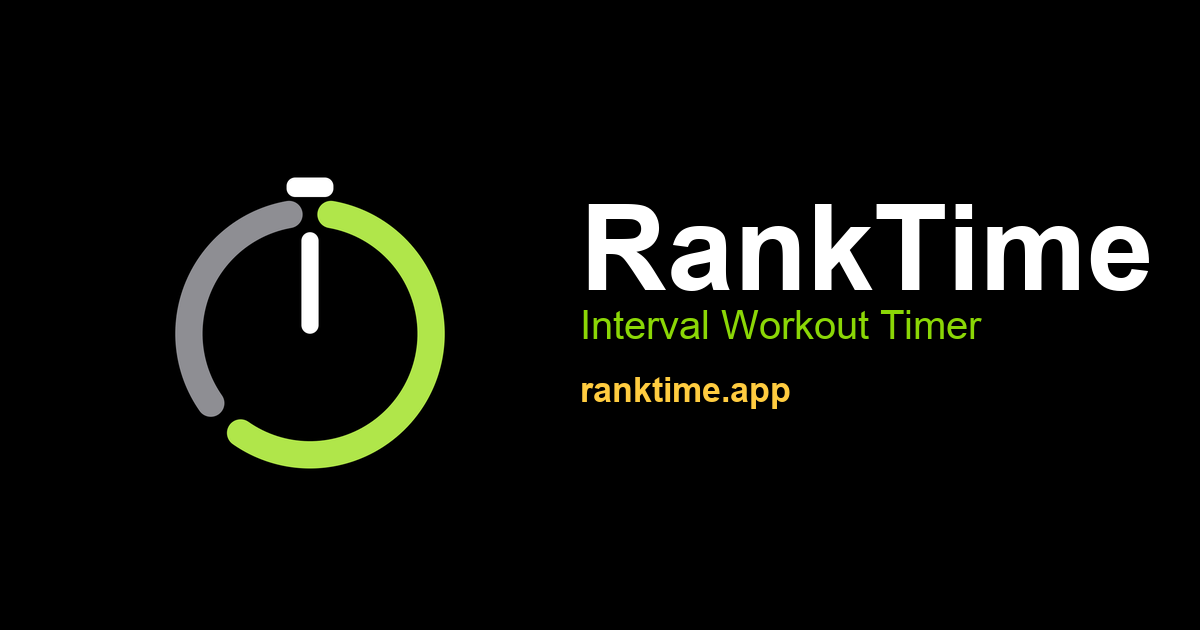
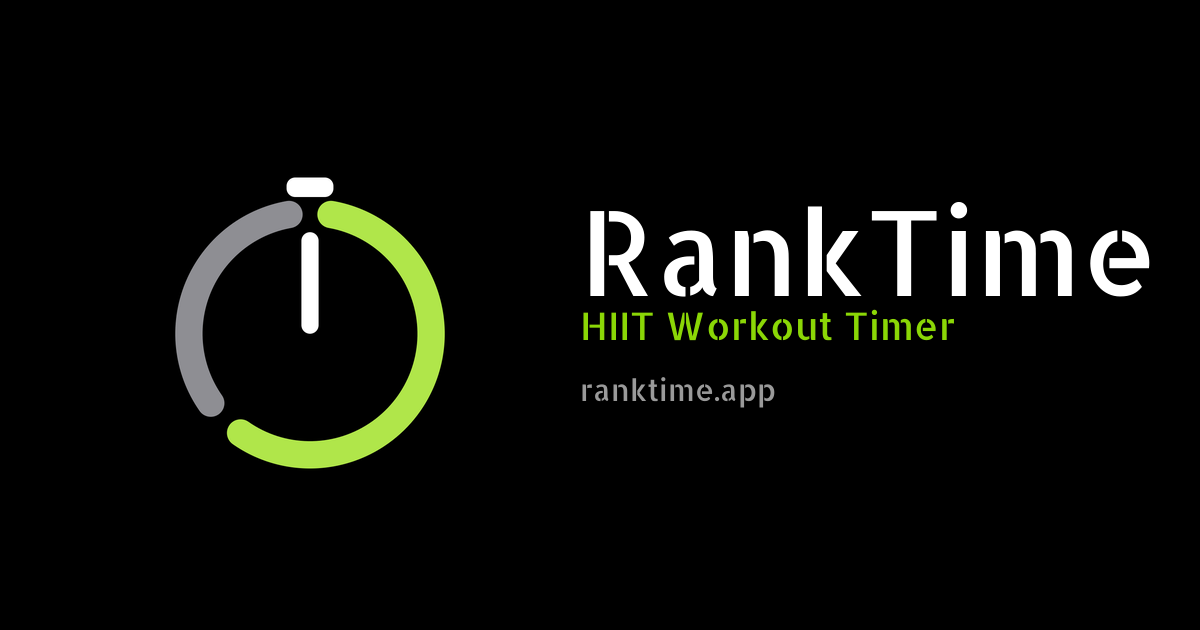
OG share card: Allerta Stencil wordmark, lime tagline, no gold; bump og:image URL for scraper cache

Changed region(s): [[0.4933, 0.3016, 0.9558, 0.5429], [0.4625, 0.6032, 0.6783, 0.6635]]

diff --git a/index.html b/index.html
@@ -9,13 +9,13 @@
   <meta property="og:url" content="https://ranktime.app/">
   <meta property="og:title" content="RankTime: HIIT Workout Timer for iPhone. Tabata, EMOM, Intervals">
   <meta property="og:description" content="RankTime is an iPhone HIIT timer for high intensity interval training: Tabata, EMOM, and custom intervals, with camera rep detection, heart rate monitoring, military rank progression, and Apple Health sync.">
-  <meta property="og:image" content="https://ranktime.app/og.png">
+  <meta property="og:image" content="https://ranktime.app/og.png?v=2">
   <meta property="og:image:width" content="1200">
   <meta property="og:image:height" content="630">
   <meta name="twitter:card" content="summary_large_image">
   <meta name="twitter:title" content="RankTime: HIIT Workout Timer for iPhone. Tabata, EMOM, Intervals">
   <meta name="twitter:description" content="RankTime is an iPhone HIIT timer for high intensity interval training: Tabata, EMOM, and custom intervals, with camera rep detection, heart rate monitoring, military rank progression, and Apple Health sync.">
-  <meta name="twitter:image" content="https://ranktime.app/og.png">
+  <meta name="twitter:image" content="https://ranktime.app/og.png?v=2">
   <link rel="canonical" href="https://ranktime.app/">
   <link rel="icon" type="image/png" href="/logo.png">
   <link rel="preload" href="/assets/AllertaStencil.ttf" as="font" type="font/ttf" crossorigin>
@@ -29,7 +29,7 @@
     "applicationCategory": "HealthApplication",
     "description": "HIIT workout timer for iPhone: Tabata, EMOM, and custom intervals with camera rep detection, heart rate monitoring, military rank progression, and Apple Health sync.",
     "url": "https://ranktime.app/",
-    "image": "https://ranktime.app/og.png",
+    "image": "https://ranktime.app/og.png?v=2",
     "author": { "@type": "Organization", "name": "RankTime", "url": "https://ranktime.app/" }
   }
   </script>

diff --git a/privacy/index.html b/privacy/index.html
@@ -9,11 +9,11 @@
   <meta property="og:url" content="https://ranktime.app/privacy/">
   <meta property="og:title" content="Privacy Policy - RankTime">
   <meta property="og:description" content="How RankTime handles your health, camera, Bluetooth, and diagnostics data.">
-  <meta property="og:image" content="https://ranktime.app/og.png">
+  <meta property="og:image" content="https://ranktime.app/og.png?v=2">
   <meta property="og:image:width" content="1200">
   <meta property="og:image:height" content="630">
   <meta name="twitter:card" content="summary_large_image">
-  <meta name="twitter:image" content="https://ranktime.app/og.png">
+  <meta name="twitter:image" content="https://ranktime.app/og.png?v=2">
   <link rel="canonical" href="https://ranktime.app/privacy/">
   <link rel="icon" type="image/png" href="/logo.png">
   <link rel="stylesheet" href="/styles.css?v=8">

diff --git a/support/index.html b/support/index.html
@@ -9,11 +9,11 @@
   <meta property="og:url" content="https://ranktime.app/support/">
   <meta property="og:title" content="Support - RankTime">
   <meta property="og:description" content="Get help with RankTime, the iPhone interval workout timer.">
-  <meta property="og:image" content="https://ranktime.app/og.png">
+  <meta property="og:image" content="https://ranktime.app/og.png?v=2">
   <meta property="og:image:width" content="1200">
   <meta property="og:image:height" content="630">
   <meta name="twitter:card" content="summary_large_image">
-  <meta name="twitter:image" content="https://ranktime.app/og.png">
+  <meta name="twitter:image" content="https://ranktime.app/og.png?v=2">
   <link rel="canonical" href="https://ranktime.app/support/">
   <link rel="icon" type="image/png" href="/logo.png">
   <link rel="stylesheet" href="/styles.css?v=8">

diff --git a/terms/index.html b/terms/index.html
@@ -9,11 +9,11 @@
   <meta property="og:url" content="https://ranktime.app/terms/">
   <meta property="og:title" content="Terms of Service - RankTime">
   <meta property="og:description" content="Terms of use for the RankTime iPhone app.">
-  <meta property="og:image" content="https://ranktime.app/og.png">
+  <meta property="og:image" content="https://ranktime.app/og.png?v=2">
   <meta property="og:image:width" content="1200">
   <meta property="og:image:height" content="630">
   <meta name="twitter:card" content="summary_large_image">
-  <meta name="twitter:image" content="https://ranktime.app/og.png">
+  <meta name="twitter:image" content="https://ranktime.app/og.png?v=2">
   <link rel="canonical" href="https://ranktime.app/terms/">
   <link rel="icon" type="image/png" href="/logo.png">
   <link rel="stylesheet" href="/styles.css?v=8">
